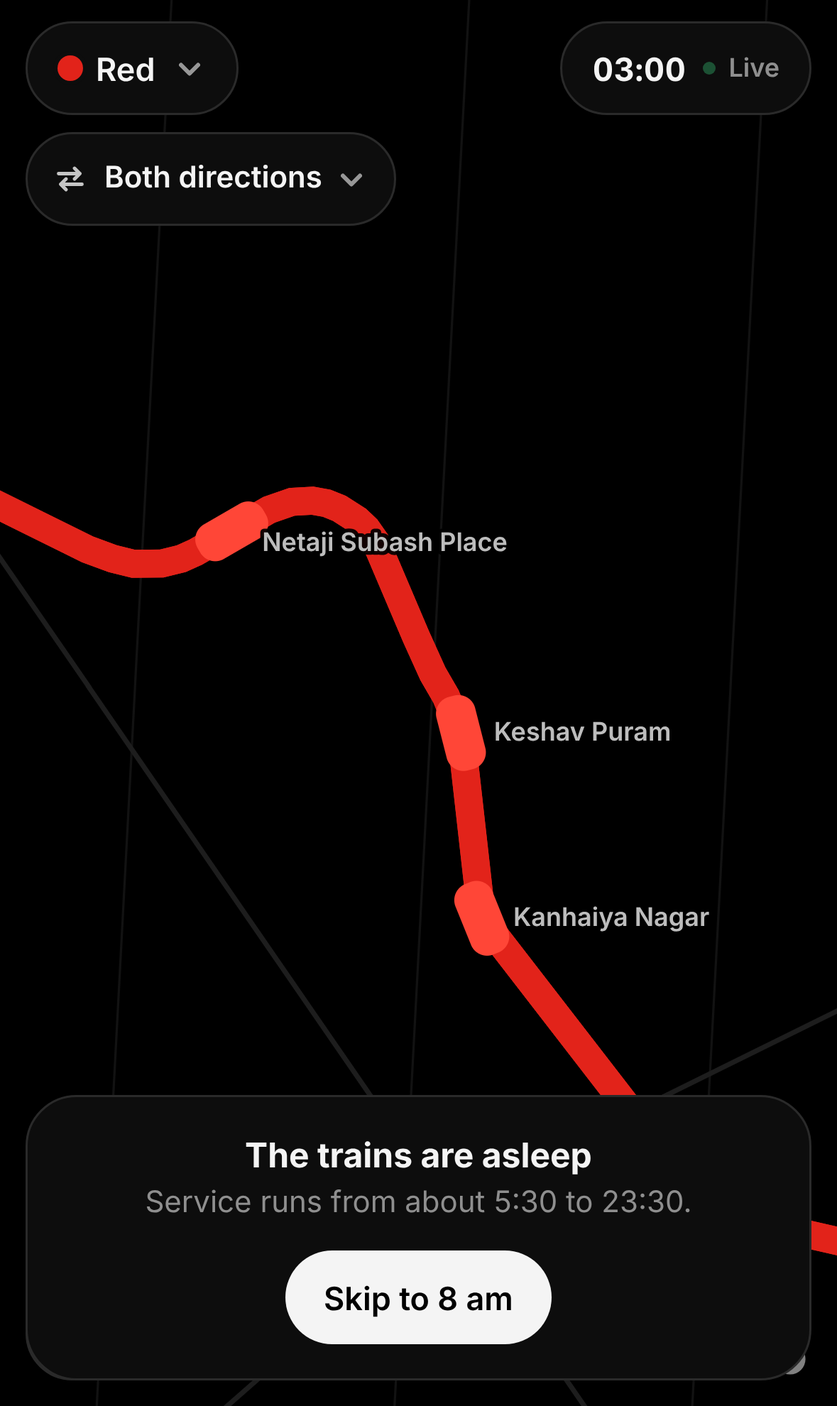
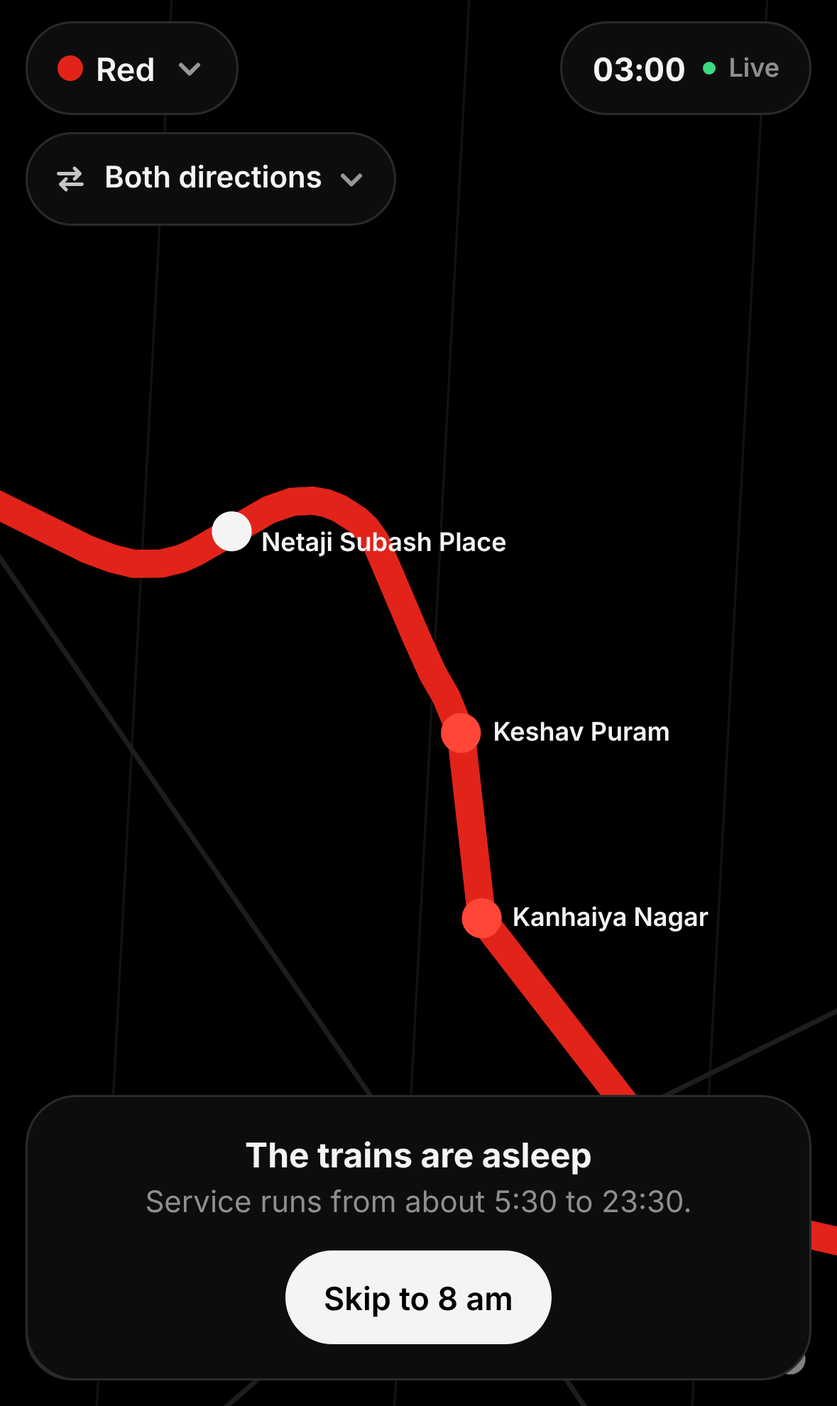
Maptro 1.3: station dots, trains that bend and merge into stations
- Stations are dots again: a step lighter than their line, white at
  interchanges, drawn over the trains.
- Zoomed in, a train is a ribbon laid along the track's own points from
  tail to nose, rebuilt each frame on the GPU, so it bends through curves
  instead of a rigid sprite swinging round its middle.
- Arriving, the nose stops at the station's centre and the tail closes up
  behind it, so the train slides into the dot; while it waits, a white core
  lights the dot. Leaving is the reverse.
- Trains are a dot or a train, never between: they snap at zoom 12.4 with
  a little hysteresis and a 200 ms opacity cross-fade.
- Station names: no halo, every name in --ink; terminals differ only by
  weight and size.

Claude-Session: https://claude.ai/code/session_01UZxfWzKVYAHWCsTLyJf7CS

diff --git a/index.html b/index.html
@@ -414,29 +414,50 @@ void main(){
   vec4 c=u_m*vec4(a_pos,0.,1.);vec2 s=c.xy/c.w*u_res*.5;v_dir=vec2(1.,0.);
   if(dot(a_dir,a_dir)>0.){vec4 c2=u_m*vec4(a_pos+a_dir*1e-6,0.,1.);vec2 t=c2.xy/c2.w*u_res*.5-s;
     if(dot(t,t)>1e-12){t=normalize(t);s+=vec2(-t.y,t.x)*u_off;v_dir=t;}}
-  // trains (kind 0) and their selection outline (kind 2) are sized from the train's length; platforms (kind 1) from u_scale
+  // train dots (kind 0) and their ring (kind 2) are sized from u_tl; station dots (1) and their lights (3) from u_scale
   float px=a_kind>1.5||a_kind<.5?u_tl*a_size+2.*u_pad:a_size*u_scale;
   gl_Position=vec4(s/(u_res*.5)*c.w,0.,c.w);gl_PointSize=px;v_px=px;v_sz=a_size;v_col=a_col;v_kind=a_kind;
 }`;
-// A train is a bullet seen from above: one solid colour, a square-cornered tail (corners from the same unit as the
-// track) and a tapered nose that points the way it travels, with a faint glow around it.
-// A platform is the track widening, a train long, its corners concentric with a train's tail.
+// Round marks, drawn as point sprites: a train as a dot when zoomed out (kind 0) and its selection ring (kind 2),
+// a station's dot (kind 1), and the light inside a station's dot while a train is in it (kind 3).
 const PT_FS = `precision highp float;varying vec4 v_col;varying float v_kind,v_px,v_sz;varying vec2 v_dir;
-uniform float u_tl,u_tw,u_gap,u_rad,u_icon;uniform vec2 u_pl;
+uniform float u_tw,u_gap,u_st,u_fade;
+void main(){vec2 p=vec2(gl_PointCoord.x*2.-1.,1.-gl_PointCoord.y*2.);float r=length(p)*v_px*.5;
+  if(v_kind>.5&&v_kind<1.5){gl_FragColor=vec4(v_col.rgb,1.)*clamp(u_st*.5-r+.5,0.,1.)*v_col.a;return;}
+  if(v_kind>2.5){gl_FragColor=vec4(v_col.rgb,1.)*clamp(u_st*.3*v_sz-r+.5,0.,1.)*v_col.a;return;}
+  float d=r-u_tw*.85*v_sz;
+  if(v_kind>1.5){float a=clamp(1.-abs(d-u_gap*2.5)/(u_gap*.9),0.,1.);gl_FragColor=vec4(1.)*a*v_col.a*u_fade;return;}
+  float edge=(1.-max(abs(p.x),abs(p.y)))*v_px*.5,glow=.26*exp(-max(d,0.)/(u_tw*.38))*smoothstep(0.,u_tw*.9,edge);
+  gl_FragColor=vec4(v_col.rgb,1.)*max(clamp(.5-d,0.,1.),glow)*v_col.a*u_fade;
+}`;
+// A train seen from above when zoomed in: a minimal bullet in one solid colour with a faint glow. It is drawn as a
+// ribbon laid along the track itself (built each frame from the route's own points), so through a bend the whole
+// train curves with the track instead of a rigid picture swinging round its middle.
+const TR_VS = `precision highp float;
+attribute vec2 a_pos,a_prev,a_next;attribute float a_side,a_x,a_len;
+uniform mat4 u_m;uniform vec2 u_res;uniform float u_w,u_off,u_dpr;
+varying float v_s,v_x,v_len;
+vec2 scr(vec4 c){return c.xy/c.w*u_res*.5;}
+void main(){
+  vec4 c=u_m*vec4(a_pos,0.,1.);vec2 s=scr(c),sp=scr(u_m*vec4(a_prev,0.,1.)),sn=scr(u_m*vec4(a_next,0.,1.));
+  vec2 t1=s-sp,t2=sn-s;
+  if(dot(t1,t1)<1e-8)t1=t2; if(dot(t2,t2)<1e-8)t2=t1; if(dot(t1,t1)<1e-8){t1=vec2(1.,0.);t2=t1;}
+  t1=normalize(t1);t2=normalize(t2);vec2 tg=t1+t2;
+  if(dot(tg,tg)<1e-6)tg=t1; else tg=normalize(tg);
+  vec2 n=vec2(-tg.y,tg.x);float ml=1./max(dot(n,vec2(-t1.y,t1.x)),.5);
+  float hw=u_w*.5;
+  gl_Position=vec4((s+n*ml*(a_side*hw+u_off))/(u_res*.5)*c.w,0.,c.w);v_s=a_side*hw;v_x=a_x*u_dpr;v_len=a_len*u_dpr; // along the train, in device px
+}`;
+const TR_FS = `precision highp float;varying float v_s,v_x,v_len;
+uniform float u_w,u_tw,u_rad,u_gap,u_ring,u_a;
 float rbox(vec2 q,vec2 h,float r){vec2 d=abs(q)-h+r;return length(max(d,0.))+min(max(d.x,d.y),0.)-r;}
 float ell(vec2 q,vec2 r){float k=length(q/r);vec2 g=q/(r*r)/max(k,1e-4);return (k-1.)/max(length(g),1e-4);}
-float bullet(vec2 q,float L,float W,float r){float hl=L*.5,hw=W*.5,nose=min(W*1.6,L*.4),x0=hl-nose;
-  return min(rbox(q-vec2((x0-hl)*.5,0.),vec2((x0+hl)*.5,hw),r),ell(q-vec2(x0,0.),vec2(nose,hw)));}
-void main(){vec2 p=vec2(gl_PointCoord.x*2.-1.,1.-gl_PointCoord.y*2.);
-  vec2 q=p*v_px*.5;q=vec2(dot(q,v_dir),dot(q,vec2(-v_dir.y,v_dir.x)));
-  if(v_kind>.5&&v_kind<1.5){vec2 h=u_pl*.5;float d=rbox(q,h,min(h.y,u_rad+(u_pl.y-u_tw)*.5));
-    gl_FragColor=vec4(v_col.rgb,1.)*clamp(.5-d,0.,1.)*v_col.a;return;}
-  float L=u_tl*v_sz,W=u_tw*v_sz,d=mix(length(q)-W*.85,bullet(q,L,W,u_rad*v_sz),u_icon);
-  if(v_kind>1.5){float a=clamp(1.-abs(d-u_gap*2.5)/(u_gap*.9),0.,1.);gl_FragColor=vec4(1.)*a*v_col.a;return;}
-  // the glow fades out before the sprite's edge, so its square never shows
-  float edge=(1.-max(abs(p.x),abs(p.y)))*v_px*.5;
+void main(){float L=v_len,W=u_tw,hl=L*.5,hw=W*.5,nose=min(W*1.6,L*.4),x0=hl-nose;vec2 q=vec2(v_x-hl,v_s);
+  float d=min(rbox(q-vec2((x0-hl)*.5,0.),vec2((x0+hl)*.5,hw),min(u_rad,hw)),ell(q-vec2(x0,0.),vec2(max(nose,.01),hw)));
+  float pad=(u_w-W)*.5,edge=min(u_w*.5-abs(v_s),min(v_x+pad,L+pad-v_x));
+  if(u_ring>.5){gl_FragColor=vec4(1.)*clamp(1.-abs(d-u_gap*2.5)/(u_gap*.9),0.,1.)*u_a;return;}
   float glow=.26*exp(-max(d,0.)/(W*.38))*smoothstep(0.,W*.9,edge);
-  gl_FragColor=vec4(v_col.rgb,1.)*max(clamp(.5-d,0.,1.),glow);
+  gl_FragColor=vec4(.957,.957,.957,1.)*max(clamp(.5-d,0.,1.),glow)*u_a;
 }`;
 
 class Buf { // growable Float32 / Uint16 writer
@@ -458,20 +479,20 @@ function polyline(V, I, pts, rgba, fade) { // pts: [[x,y,f?]] in relative Mercat
   for (let i = 0; i < n - 1; i++) { const k = base + i * 2; I.push(k, k + 1, k + 2, k + 1, k + 3, k + 2); }
 }
 
-// One unit, u, the width of a train, sets everything (CSS px). The track is two trains wide with a gap of g
-// between them; corners are u * .3; platforms add u * .45 all round, so their corners are concentric with a train's.
+// One unit, u, the width of a train, sets everything (CSS px). The track is two trains wide with a gap of g between
+// them. A station is a dot that takes the whole track and a little more, so a train arriving disappears into it.
+const ICON_Z = 12.4; // zoomed in from here trains are drawn as trains; zoomed out, as dots. Never anything between.
 function sizes(z) {
   const u = Math.max(3, Math.min(8, 2.6 + (z - 10) * 1.2)), g = Math.max(.75, u * .12);
-  const band = 2 * u + g, lane = (u + g) / 2, tl = u * 4.6;
-  // zoomed out a platform is round; from about zoom 12 it stretches to hold a whole train
-  const m = u * .45, pw = band + 2 * m, pl = pw + (tl + 2 * m + 2 * g - pw) * Math.max(0, Math.min(1, (z - 11.4) / 1.4));
-  // zoomed out a train is a dot, to save space; between zoom 12 and 12.8 it grows into the bullet
-  const icon = Math.max(0, Math.min(1, (z - 12) / .8));
-  return { u, tw: u, tl, g, band, lane, rad: u * .3, pw, pl, st: Math.max(pw, pl * .55), icon };
+  const band = 2 * u + g, lane = (u + g) / 2, tl = u * 4.6, st = band + u * .9;
+  return { u, tw: u, tl, g, band, lane, rad: u * .3, st };
 }
+// CSS px per metre on the map at zoom z (512 px world tiles; Delhi's latitude)
+const pxPerM = z => 512 * 2 ** z / (40075016.7 * Math.cos(28.6 * Math.PI / 180));
 function makeGpu() {
   const g = { lineV: new Buf(Float32Array), lineI: new Buf(Uint16Array), stV: new Buf(Float32Array),
-    headV: new Buf(Float32Array), fxV: new Buf(Float32Array),
+    headV: new Buf(Float32Array), fxV: new Buf(Float32Array), occV: new Buf(Float32Array),
+    trV: new Buf(Float32Array), trI: new Buf(Uint16Array), pickV: new Buf(Float32Array), pickI: new Buf(Uint16Array), icon: 0, iconT: 0, lastT: 0,
     staticDirty: true, gl: null };
   g.init = gl => {
     g.gl = gl;
@@ -484,13 +505,14 @@ function makeGpu() {
       return { p, u, attrs }; };
     g.line = prog(LINE_VS, LINE_FS, ['a_pos', 'a_prev', 'a_next', 'a_side', 'a_col']);
     g.pt = prog(PT_VS, PT_FS, ['a_pos', 'a_dir', 'a_col', 'a_size', 'a_kind']);
-    g.b = {}; for (const k of ['lineV', 'lineI', 'stV', 'headV', 'fxV']) g.b[k] = gl.createBuffer();
+    g.tr = prog(TR_VS, TR_FS, ['a_pos', 'a_prev', 'a_next', 'a_side', 'a_x', 'a_len']);
+    g.b = {}; for (const k of ['lineV', 'lineI', 'stV', 'headV', 'fxV', 'occV', 'trV', 'trI', 'pickV', 'pickI']) g.b[k] = gl.createBuffer();
     g.isGL2 = typeof WebGL2RenderingContext !== 'undefined' && gl instanceof WebGL2RenderingContext;
     g.vao = g.isGL2 ? null : gl.getExtension('OES_vertex_array_object');
     g.minmax = g.isGL2 ? gl.MAX : (gl.getExtension('EXT_blend_minmax') || {}).MAX_EXT;
     g.staticDirty = true;
   };
-  const LINE_LAYOUT = [[0, 2], [2, 2], [4, 2], [6, 1], [7, 4]], PT_LAYOUT = [[0, 2], [2, 2], [4, 4], [8, 1], [9, 1]];
+  const LINE_LAYOUT = [[0, 2], [2, 2], [4, 2], [6, 1], [7, 4]], TR_LAYOUT = [[0, 2], [2, 2], [4, 2], [6, 1], [7, 1], [8, 1]], PT_LAYOUT = [[0, 2], [2, 2], [4, 4], [8, 1], [9, 1]];
   function bindAttrs(gl, layout, stride) {
     layout.forEach(([off, size], i) => { gl.enableVertexAttribArray(i); gl.vertexAttribPointer(i, size, gl.FLOAT, false, stride * 4, off * 4); });
   }
@@ -514,16 +536,31 @@ function makeGpu() {
     if (g.lineI.n) { gl.uniform1f(L.u.u_w, trackW); gl.uniform1f(L.u.u_off, 0);
       gl.drawElements(gl.TRIANGLES, g.lineI.n, gl.UNSIGNED_SHORT, 0); }
     unbind(gl, 5);
-    // platforms sit on the track, under the trains
-    const P = g.pt; gl.useProgram(P.p); gl.uniformMatrix4fv(P.u.u_m, false, M); gl.uniform2fv(P.u.u_res, res);
-    gl.uniform1f(P.u.u_tl, tl); gl.uniform1f(P.u.u_tw, tw); 
-    gl.uniform1f(P.u.u_gap, S.g * dpr); gl.uniform1f(P.u.u_rad, S.rad * dpr); gl.uniform1f(P.u.u_icon, S.icon); gl.uniform2f(P.u.u_pl, S.pl * dpr, S.pw * dpr); 
-    const pts = (buf, data, scale, o, pad, again) => { if (!data.n) return; gl.bindBuffer(gl.ARRAY_BUFFER, buf); if (data !== g.stV && !again) gl.bufferData(gl.ARRAY_BUFFER, data.view(), gl.DYNAMIC_DRAW);
+    // Trains snap between a dot and a train at ICON_Z (with a little give, so a pinch resting on the line doesn't
+    // flicker), and cross-fade in 200 ms: only opacity changes, never the shape.
+    const now = performance.now(), dt = Math.min(100, now - (g.lastT || now)); g.lastT = now;
+    if (z > ICON_Z + .1) g.iconT = 1; else if (z < ICON_Z - .1) g.iconT = 0;
+    g.icon = RM.matches ? g.iconT : g.icon + Math.sign(g.iconT - g.icon) * Math.min(Math.abs(g.iconT - g.icon), dt / 200);
+    const fade = g.icon * g.icon * (3 - 2 * g.icon);
+    const P = g.pt, T = g.tr, pts = (buf, data, scale, o, pad, kind) => { if (!data.n) return; gl.bindBuffer(gl.ARRAY_BUFFER, buf); if (data !== g.stV) gl.bufferData(gl.ARRAY_BUFFER, data.view(), gl.DYNAMIC_DRAW);
       bindAttrs(gl, PT_LAYOUT, 10); gl.uniform1f(P.u.u_scale, scale * dpr); gl.uniform1f(P.u.u_off, o); gl.uniform1f(P.u.u_pad, pad); gl.drawArrays(gl.POINTS, 0, data.n / 10); };
-    pts(g.b.stV, g.stV, S.pl + 2, 0, 0);
-    // trains, then the selection outline
-    pts(g.b.headV, g.headV, 1, off, tw * 1.4);
-    pts(g.b.fxV, g.fxV, 1, off, 6 * dpr);
+    const strip = (V, I, ring, a) => { if (!I.n || a <= 0) return; gl.useProgram(T.p); gl.uniformMatrix4fv(T.u.u_m, false, M); gl.uniform2fv(T.u.u_res, res);
+      upload(gl, gl.ARRAY_BUFFER, ring ? g.b.pickV : g.b.trV, V.view(), gl.DYNAMIC_DRAW); upload(gl, gl.ELEMENT_ARRAY_BUFFER, ring ? g.b.pickI : g.b.trI, I.view(), gl.DYNAMIC_DRAW);
+      bindAttrs(gl, TR_LAYOUT, 9); gl.uniform1f(T.u.u_w, tw * (ring ? 1.9 : 3.4)); gl.uniform1f(T.u.u_tw, tw); gl.uniform1f(T.u.u_off, off); gl.uniform1f(T.u.u_dpr, dpr);
+      gl.uniform1f(T.u.u_rad, S.rad * dpr); gl.uniform1f(T.u.u_gap, S.g * dpr); gl.uniform1f(T.u.u_ring, ring ? 1 : 0); gl.uniform1f(T.u.u_a, a);
+      gl.drawElements(gl.TRIANGLES, I.n, gl.UNSIGNED_SHORT, 0); unbind(gl, 6); };
+    const ptSetup = () => { gl.useProgram(P.p); gl.uniformMatrix4fv(P.u.u_m, false, M); gl.uniform2fv(P.u.u_res, res);
+      gl.uniform1f(P.u.u_tl, tw * 1.7); gl.uniform1f(P.u.u_tw, tw); gl.uniform1f(P.u.u_gap, S.g * dpr); gl.uniform1f(P.u.u_st, S.st * dpr); };
+    // trains first, then the station dots over them, so a train arriving slides in under its station's dot
+    strip(g.trV, g.trI, false, fade);
+    ptSetup();
+    if (fade < 1) { gl.uniform1f(P.u.u_fade, 1 - fade); pts(g.b.headV, g.headV, 1, off, tw * 1.4); }
+    gl.uniform1f(P.u.u_fade, 1);
+    pts(g.b.stV, g.stV, S.st + 2, 0, 0);
+    pts(g.b.occV, g.occV, S.st + 2, 0, 0);
+    // the selection outline, on top of everything
+    if (fade > 0) { unbind(gl, 5); strip(g.pickV, g.pickI, true, fade * (g.pickA || 1)); ptSetup(); }
+    if (fade < 1) { gl.uniform1f(P.u.u_fade, 1 - fade); pts(g.b.fxV, g.fxV, 1, off, 6 * dpr); gl.uniform1f(P.u.u_fade, 1); }
     unbind(gl, 5);
     gl.bindBuffer(gl.ARRAY_BUFFER, null); gl.bindBuffer(gl.ELEMENT_ARRAY_BUFFER, null);
   };
@@ -531,7 +568,7 @@ function makeGpu() {
 }
 
 /* ---------- scene building ---------- */
-let stations = [], labelList = []; // stations on selected lines, grouped by name
+let stations = [], labelList = [], stationByName = new Map(); // stations on selected lines, grouped by name
 function buildStatic() {
   const g = gpu; g.lineV.reset(); g.lineI.reset(); g.stV.reset();
   const ids = new Set(R.map(r => r.id));
@@ -552,12 +589,13 @@ function buildStatic() {
     if (sel.has(r.line)) { s.on.add(r.line); if (!s.m) s.m = merc(D.stops[p[0]][1], D.stops[p[0]][2]); if (j === 0 || j === r.pat.length - 1) s.term = true;
       const k = name + '|' + r.line; if (!plat.has(k)) plat.set(k, { s, r, d: p[3] }); }
   });
-  stations = [...byName.values()].filter(s => s.on.size);
-  // one platform per station per line, on that line's own track and turned to follow it
+  stations = [...byName.values()].filter(s => s.on.size); stationByName = byName;
+  // one dot per station per line, on that line's own track; white at an interchange, as on Maptro's first map
   for (const { s, r, d } of plat.values()) {
-    const [x, y] = posAt(r, d), [tx, ty] = headingAt(r, d), c = tone[r.line].platform;
-    g.stV.push(x - ORIGIN[0], y - ORIGIN[1], tx, ty, c[0], c[1], c[2], 1, 1, 1);
+    const [x, y] = posAt(r, d), c = s.lines.size > 1 ? INK : tone[r.line].platform;
+    g.stV.push(x - ORIGIN[0], y - ORIGIN[1], 0, 0, c[0], c[1], c[2], 1, 1, 1);
   }
+  for (const s of stations) s.ic = s.lines.size > 1;
   for (const s of stations) {
     const ic = s.lines.size > 1;
     s.pri = (s.term ? 2 : 0) + (ic ? 1 : 0);
@@ -566,17 +604,59 @@ function buildStatic() {
   labelList = stations.slice().sort((a, b) => b.pri - a.pri);
   g.staticDirty = true; labelsDirty = true;
 }
+// A train's visible stretch of track, in metres along its route [tail, nose], and how far it has gone into a station
+// (0 out, 1 in). Between stations it is a train's length centred on its scheduled position. Arriving, the nose stops
+// at the station's centre and the tail closes up behind it, so the train slides into the station's dot; leaving, the
+// reverse. `half` is half a train's length in metres at the current zoom.
+function trainSpan(o, half) {
+  const p = o.r.pat;
+  if (o.dwell) return { tail: o.d, nose: o.d, sd: o.d, inn: 1 };
+  const a = p[o.i][3], b = p[o.i + 1][3], h = Math.min(half, (b - a) * .45), d = o.d;
+  let tail = d - h, nose = d + h, sd = null, inn = 0;
+  if (nose > b) { nose = b; tail = b - 2 * (b - d); sd = b; inn = 1 - (b - d) / h; }
+  if (tail < a) { tail = a; nose = Math.min(nose, a + 2 * (d - a)); sd = a; inn = Math.max(inn, 1 - (d - a) / h); }
+  return { tail, nose, sd, inn: Math.max(0, Math.min(1, inn)) };
+}
+// Points of route r from distance d0 to d1 (metres), relative to ORIGIN, each with its distance.
+function routeSlice(r, d0, d1) {
+  const out = [], a = posAt(r, d0); out.push([a[0] - ORIGIN[0], a[1] - ORIGIN[1], d0]);
+  for (let i = lowerBound(r.md, d0 + 1e-6); i < r.md.length && r.md[i] < d1; i++) out.push([r.mx[i] - ORIGIN[0], r.my[i] - ORIGIN[1], r.md[i]]);
+  const b = posAt(r, d1); out.push([b[0] - ORIGIN[0], b[1] - ORIGIN[1], d1]);
+  return out;
+}
+function ribbon(V, I, r, tail, nose, ppm, padM) {
+  const end = r.md[r.md.length - 1], pts = routeSlice(r, Math.max(r.md[0], tail - padM), Math.min(end, nose + padM));
+  const n = pts.length, base = V.n / 9, len = (nose - tail) * ppm; if (n < 2 || base + n * 2 > 65000) return;
+  for (let i = 0; i < n; i++) {
+    const q = pts[i], a = pts[Math.max(0, i - 1)], b = pts[Math.min(n - 1, i + 1)], x = (q[2] - tail) * ppm;
+    V.push(q[0], q[1], a[0], a[1], b[0], b[1], -1, x, len); V.push(q[0], q[1], a[0], a[1], b[0], b[1], 1, x, len);
+  }
+  for (let i = 0; i < n - 1; i++) { const k = base + i * 2; I.push(k, k + 1, k + 2, k + 1, k + 3, k + 2); }
+}
 function buildDynamic(t) {
-  const g = gpu; g.headV.reset(); g.fxV.reset();
+  const g = gpu; g.headV.reset(); g.fxV.reset(); g.occV.reset(); g.trV.reset(); g.trI.reset(); g.pickV.reset(); g.pickI.reset();
   trains = trainsAt(act, t, null);
+  const z = cam.zoom(), S = sizes(z), ppm = pxPerM(z), half = S.tl / 2 / ppm, padM = S.u * 1.6 / ppm;
+  const lit = new Map(); // station dots with a train in them, and how far in
   for (const o of trains) {
     const [x, y] = o.pos, [tx, ty] = headingAt(o.r, o.d);
-    const isPick = picked && picked.r === o.r && picked.s0 === o.s0, c = INK; // every train is the same white object; the line under it says which line
-    g.headV.push(x - ORIGIN[0], y - ORIGIN[1], tx, ty, c[0], c[1], c[2], 1, isPick ? 1.18 : 1, 0);
+    const isPick = picked && picked.r === o.r && picked.s0 === o.s0;
+    const sp = trainSpan(o, half);
+    if (sp.nose - sp.tail > .5) ribbon(g.trV, g.trI, o.r, sp.tail, sp.nose, ppm, padM);
+    g.headV.push(x - ORIGIN[0], y - ORIGIN[1], tx, ty, INK[0], INK[1], INK[2], 1, 1, 0);
+    if (sp.inn > 0) { const k = o.r.line + '|' + sp.sd + '|' + o.r.id, q = lit.get(k); if (!q || q.inn < sp.inn) lit.set(k, { o, d: sp.sd, inn: sp.inn }); }
     if (isPick) { picked.o = o; const a = RM.matches ? 1 : .55 + .45 * Math.sin(performance.now() / 260);
-      g.fxV.push(x - ORIGIN[0], y - ORIGIN[1], tx, ty, 1, 1, 1, a, 1.18, 2); }
+      if (sp.nose - sp.tail > .5) ribbon(g.pickV, g.pickI, o.r, sp.tail, sp.nose, ppm, padM * .6);
+      g.pickA = a; g.fxV.push(x - ORIGIN[0], y - ORIGIN[1], tx, ty, 1, 1, 1, a, 1, 2); }
+  }
+  // the train becomes the light in its station's dot: white in a line's dot, the line's colour in an interchange's
+  for (const { o, d, inn } of lit.values()) {
+    const s = stopAt(o.r, d), ic = s && s.ic, c = ic ? rgb[o.r.line] : INK, m = posAt(o.r, d);
+    g.occV.push(m[0] - ORIGIN[0], m[1] - ORIGIN[1], 0, 0, c[0], c[1], c[2], 1, inn, 3);
   }
 }
+// The station (by name) where route r stops at distance d.
+function stopAt(r, d) { const p = r.pat.find(q => q[3] === d); return p && stationByName.get(D.stops[p[0]][0]); }
 
 /* ---------- cameras ---------- */
 function mapLibreCamera(ml) {
@@ -703,8 +783,8 @@ function drawLabels() {
       const box = [bx - 2, by - 1, bx + w + 2, by + h + 1];
       if (box[0] < 2 || box[2] > W - 2 || hit(box) || coversDot(box, li)) continue;
       placed.push(box);
-      lx.strokeStyle = 'rgba(0,0,0,.92)'; lx.lineWidth = 3.5; lx.strokeText(s.name, bx, by + h / 2);
-      lx.fillStyle = big ? '#ffffff' : '#bdbdbd'; lx.fillText(s.name, bx, by + h / 2);
+      // plain text, no halo: every name in --ink; terminals stand out by weight and size alone
+      lx.fillStyle = '#f4f4f4'; lx.fillText(s.name, bx, by + h / 2);
       break;
     }
   }

diff --git a/DESIGN.md b/DESIGN.md
@@ -42,7 +42,7 @@ Rules:
 - State colours are few and small: the green dot beside "Live", amber when the clock runs fast, a white fill when Follow is on.
 - The primary action ("Skip to 8 am", "Tap to reload", Follow when on) is white with black text.
 - Line colours are DMRC's own, nudged brighter where they read too dark on black (`SHOW` in `index.html`). They are drawn flat: no gradients, glow, outlines or added light.
-- **Full-strength colour.** The track is each line's colour at full strength (`TONES.track` = 1), as bright as the very first Maptro; a toned-down track was tried in 1.2 and read as dull. Platforms are a step lighter (`TONES.platform` = 1.2, OKLab lightness, hue kept).
+- **Full-strength colour.** The track is each line's colour at full strength (`TONES.track` = 1), as bright as the very first Maptro; a toned-down track was tried in 1.2 and read as dull. Station dots are a step lighter (`TONES.platform` = 1.2, OKLab lightness, hue kept); interchange dots are `--ink`.
 - Trains are `--ink`, one solid colour, with a faint glow around them. They are the brightest thing on the map and the same on every line; the track under a train says which line it is.
 
 ### Basemap
@@ -72,7 +72,7 @@ The system font (`-apple-system`, SF Pro on iPhone). No web font loads: it is na
 | Minutes to next stop | 22px | 700, tabular numerals |
 | Card subtitle, departures | 14px | 400-500 |
 | Small notes ("Scheduled", Disclaimer) | 13px | 600 |
-| Station labels on the map | 12px (13px terminals) | 600 / 700, black halo |
+| Station labels on the map | 12px (13px terminals) | 600 / 700, `--ink`, no halo |
 
 Numbers that change (the clock, train count, minutes) use tabular numerals so they don't jitter.
 
@@ -102,23 +102,24 @@ Shown under the line picker when exactly one line is chosen. It is a native `<se
 ### Count note
 "19 trains active", with the line's dot: a small pill that drops in under the controls for 2.6 seconds when the page opens, the lines change (once the picker closes) or the direction changes. It replaced the number that sat in the line picker, which read as a static label. Not shown when no train is running (the quiet-hours sheet says that).
 
-### Trains, track and stations: one system
-The first draft of 1.2 showed that the map, the track and the trains read as three design languages: the basemap was flat filled shapes, the track was outlined rails, the trains were a white sprite with a sharp nose and a rim. Everything is now built from the basemap's own language: **flat fills, rounded geometry, no outlines, one unit.** The one exception is the trains' faint glow, kept on purpose so a train reads as the live thing on the map.
+### Trains, track and stations
+Flat fills, round geometry, no outlines; the trains' faint glow is the one exception. Every size comes from one unit, `u`, a train's width (`sizes()` in `index.html`): 3px zoomed out, growing to 8px.
 
-**The unit.** `u` is a train's width (`sizes()` in `index.html`): 3px zoomed out, growing to 8px. Everything else is a multiple of it.
+| Part | Size |
+|---|---|
+| Track | `2u + g` (`g = .12u`): exactly two trains, one per direction, in the line's full colour |
+| Station | a dot `2u + g + .9u` across, a step lighter than its line; white at an interchange |
+| Train, zoomed in | a bullet `u` wide and `4.6u` long, solid `--ink`, faint glow |
+| Train, zoomed out | a dot `1.7u` across, solid `--ink`, faint glow |
 
-| Part | Size | Corner radius |
-|---|---|---|
-| Train | zoomed in: `u` wide, `4.6u` long, a bullet with a square-cornered tail and tapered nose. Below zoom 12: a dot `1.7u` across | tail `.3u` |
-| Track | `2u + g` (`g = .12u`): exactly two trains, one per direction | round joins, like the roads |
-| Platform | track width plus `.45u` all round; zoomed out a round mark, from about zoom 11.5 it stretches to hold a train | concentric with a train's: `.3u + .45u` |
-| Roads | MapLibre lines with round caps and joins | |
+- **Dot or train, never in between.** Trains are dots below zoom 12.4 (`ICON_Z`) and trains above it, with 0.1 of give either side so a pinch resting near it doesn't flicker. Crossing it cross-fades the two in 200 ms: only opacity changes, never the shape. (1.2 blended the shapes by zoom, which left a "rugby ball" in between.)
+- **Trains bend with the track.** A zoomed-in train is not a picture turned to face its heading. It is a ribbon laid along the track's own points from its tail to its nose, rebuilt every frame and drawn on the GPU, so through a bend every part of the train follows the curve. The bullet shape is worked out per pixel along and across that ribbon. (A rigid sprite has to pick one angle, so in a bend it cut the corner and swung round late.)
+- **Trains merge into stations.** Station dots are drawn over the trains. Arriving, a train's nose stops at the station's centre and its tail closes up behind it, so it slides into the dot; while it waits, its light sits in the dot as a white core (in the line's colour at an interchange), growing as the train goes in and shrinking as it comes out. Leaving is the reverse. Zoomed out, the train dot simply slides under the station dot.
+- Trains run on the left side of the track, as Delhi's do. The picked train gets a white outline, `2.5g` out, that pulses.
+- Real station footprints were considered and not used: most of Delhi's stations are underground and have no footprint, and the elevated ones are a few pixels across until zoom 15.
 
-- **Track:** one flat band in the line's track tone, two trains wide. Trains run on the left side, as Delhi's do, so the two directions never overlap. A train fills its half of the band edge to edge.
-- **Trains:** zoomed in, a minimal bullet: one solid `--ink` fill with a faint glow (26% at its edge, gone within about a train's width, drawn in the same sprite, so no blur), its nose showing which way it travels. Zoomed out past 12 it is a dot, to save space; between zoom 12 and 12.8 the dot grows into the bullet (the shapes are blended, so there is no jump). No windscreen, coaches, rim or trail. Three coaches were tried in 1.2 and read as dots. The heading is averaged over 90 m of track, so trains turn smoothly through bends. The picked train gets a white outline, `2.5g` out, that pulses.
-- **Stations are drawn as their platforms:** the track widening, in the line's full colour, a train long, so a train visibly pulls in and stops inside it. Each line gets its own platform where it stops, so an interchange shows each line's platform where it really is; interchanges are told apart by their bolder label.
-  - Real station footprints were considered and not used: most of Delhi's stations are underground and have no footprint, the elevated ones are a few pixels across until zoom 15, and OpenStreetMap outlines vary in quality. The platform says the same thing (a train stops here, along this track) at every zoom.
-- **Basemap:** unchanged colours; roads now have round caps and joins, the same geometry as the track.
+### Station names
+Plain text in `--ink`, no halo or shadow (it read as a comic). Terminals stand out by weight and size alone (13px 700 against 12px 600), never by colour. Names never overlap each other or another interchange or terminal dot.
 
 ### Line picker
 A dropdown that unfolds from the pill. Header "Lines" with All and None. One row per line: a ring in the line colour that fills with a tick when chosen, and the line's name. Each row is a real `switch` checkbox stretched over the row, so the tap is native and gives the haptic tick. Tapping outside closes it, and the map then fits the chosen lines.
@@ -205,7 +206,7 @@ From Kiron's record, and they apply here too:
 ## 11. Checklist for any change
 
 - [ ] Uses the tokens above; colour only for lines and state.
-- [ ] Map shapes come from the unit `u` and its radii; flat fills, no outlines or gradients; glow only on trains.
+- [ ] Map shapes come from the unit `u`; flat fills, no outlines or gradients; glow only on trains; trains are a dot or a train, never between.
 - [ ] System font only.
 - [ ] No new text that could be cut.
 - [ ] DOM motion is transform/opacity only, on an existing curve; no blur or shadow on panels.

diff --git a/README.md b/README.md
@@ -19,7 +19,7 @@ Then serve the folder (`python3 -m http.server`) and open index.html.
 ## The page
 - `index.html` is the whole app, with no build step. It draws the lines, stations and trains with WebGL as a MapLibre GL custom layer over an OpenStreetMap basemap (OpenFreeMap vector tiles in Maptro's own true-black style). MapLibre 4.7.1 comes from jsDelivr (unpkg as a second try). If neither loads, the same WebGL renderer runs on its own canvas with its own pan and pinch, just without the basemap.
 - It opens on the Airport Express. Pick lines from the dropdown; only those lines, their stations and their trains are drawn. Station names appear by zoom level and never overlap. The choice is remembered in the browser.
-- Trains glide every frame (`requestAnimationFrame`, so 120 Hz on ProMotion phones) drawn as white dots when zoomed out and, zoomed in, as white bullets with a faint glow, nose first so you can see which way they're heading. The track is a flat band in the line's full colour, two trains wide, and each direction keeps to its own (left-hand) side. Stations are drawn as their platforms. Every shape comes from one unit, a train's width (see DESIGN.md). With one line chosen, a direction dropdown shows both directions or just one, and a note says how many trains are active. Tap a train for its next stop and Follow it; tap a station for its next departures. When no trains run, Skip to 8 am starts a simulation, and only then can the clock run at 1×, 10× or 60×.
+- Trains glide every frame (`requestAnimationFrame`, so 120 Hz on ProMotion phones) drawn as white dots when zoomed out and as white bullets with a faint glow when zoomed in, never anything between. A zoomed-in train is laid along the track itself, so it bends through curves. Trains slide into a station's dot when they arrive and out of it when they leave. The track is a flat band in the line's full colour, two trains wide, and each direction keeps to its own (left-hand) side. With one line chosen, a direction dropdown shows both directions or just one, and a note says how many trains are active. Tap a train for its next stop and Follow it; tap a station for its next departures. When no trains run, Skip to 8 am starts a simulation, and only then can the clock run at 1×, 10× or 60×.
 
 ## Design
 How it looks, moves and behaves, and the checklist for any change: [DESIGN.md](DESIGN.md).
